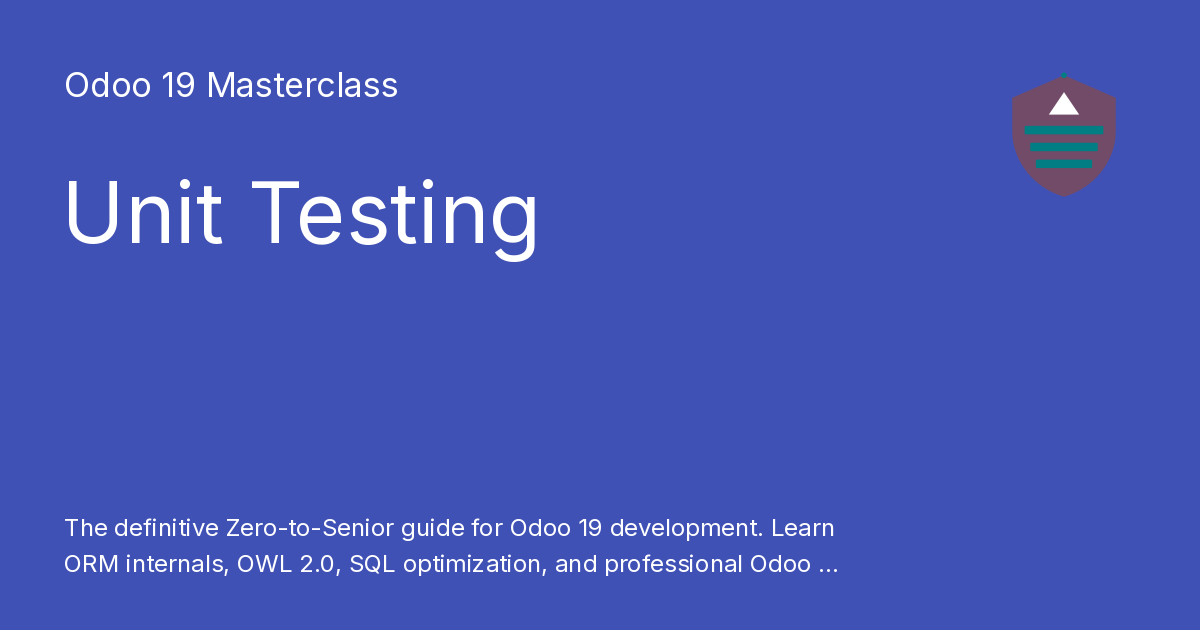
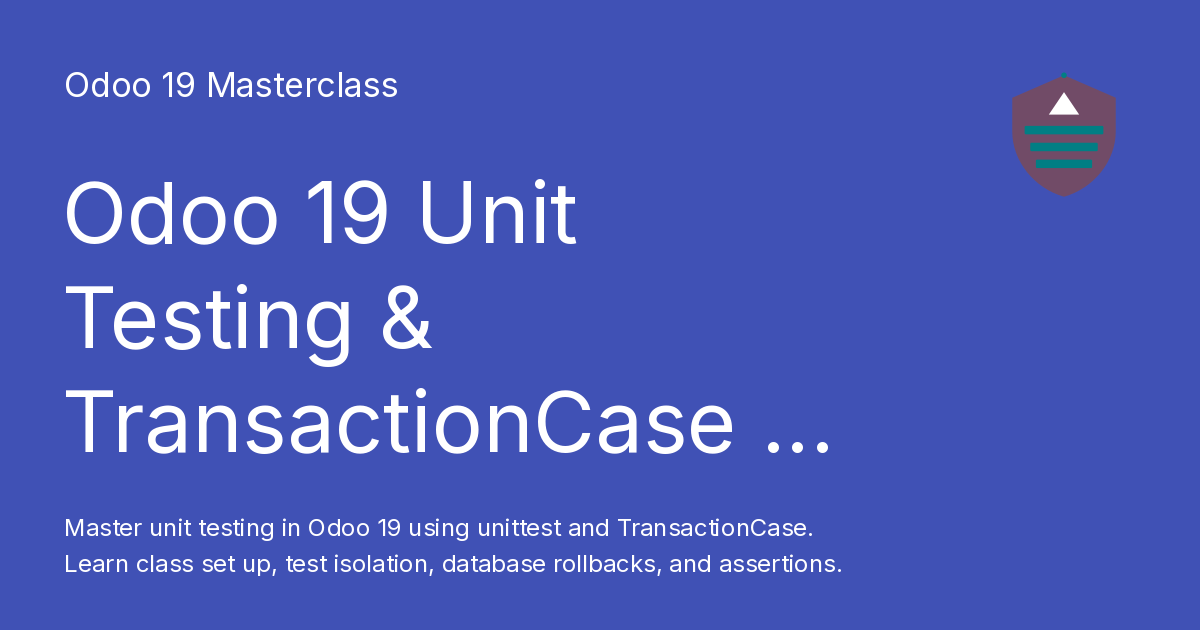
docs: implement rich SEO JSON-LD course and tech article schemas

diff --git a/overrides/main.html b/overrides/main.html
@@ -2,4 +2,50 @@
 
 {% block extrahead %}
   <meta name="google-site-verification" content="gX2Rra1-KtV6zrH-4SbnpJJJ0xncsAzUSYCcG8D8J4g" />
+  
+  {% if page %}
+    {% if page.is_homepage %}
+    <script type="application/ld+json">
+    {
+      "@context": "https://schema.org",
+      "@type": "Course",
+      "@id": "{{ config.site_url }}#course",
+      "name": "{{ config.site_name }}",
+      "description": "{{ config.site_description }}",
+      "provider": {
+        "@type": "Person",
+        "name": "{{ config.site_author }}",
+        "sameAs": "https://github.com/Kashyap-001"
+      }
+    }
+    </script>
+    {% else %}
+    <script type="application/ld+json">
+    {
+      "@context": "https://schema.org",
+      "@type": "TechArticle",
+      "headline": "{{ page.title | replace('\"', '\\\"') }}",
+      "description": "{{ (page.meta.description or config.site_description) | replace('\"', '\\\"') }}",
+      "url": "{{ config.site_url }}{{ page.url }}",
+      "author": {
+        "@type": "Person",
+        "name": "{{ config.site_author }}"
+      },
+      "publisher": {
+        "@type": "Organization",
+        "name": "{{ config.site_name }}",
+        "logo": {
+          "@type": "ImageObject",
+          "url": "{{ config.site_url }}images/logo.svg"
+        }
+      },
+      "inLanguage": "en-US",
+      "mainEntityOfPage": {
+        "@type": "WebPage",
+        "@id": "{{ config.site_url }}{{ page.url }}"
+      }
+    }
+    </script>
+    {% endif %}
+  {% endif %}
 {% endblock %}